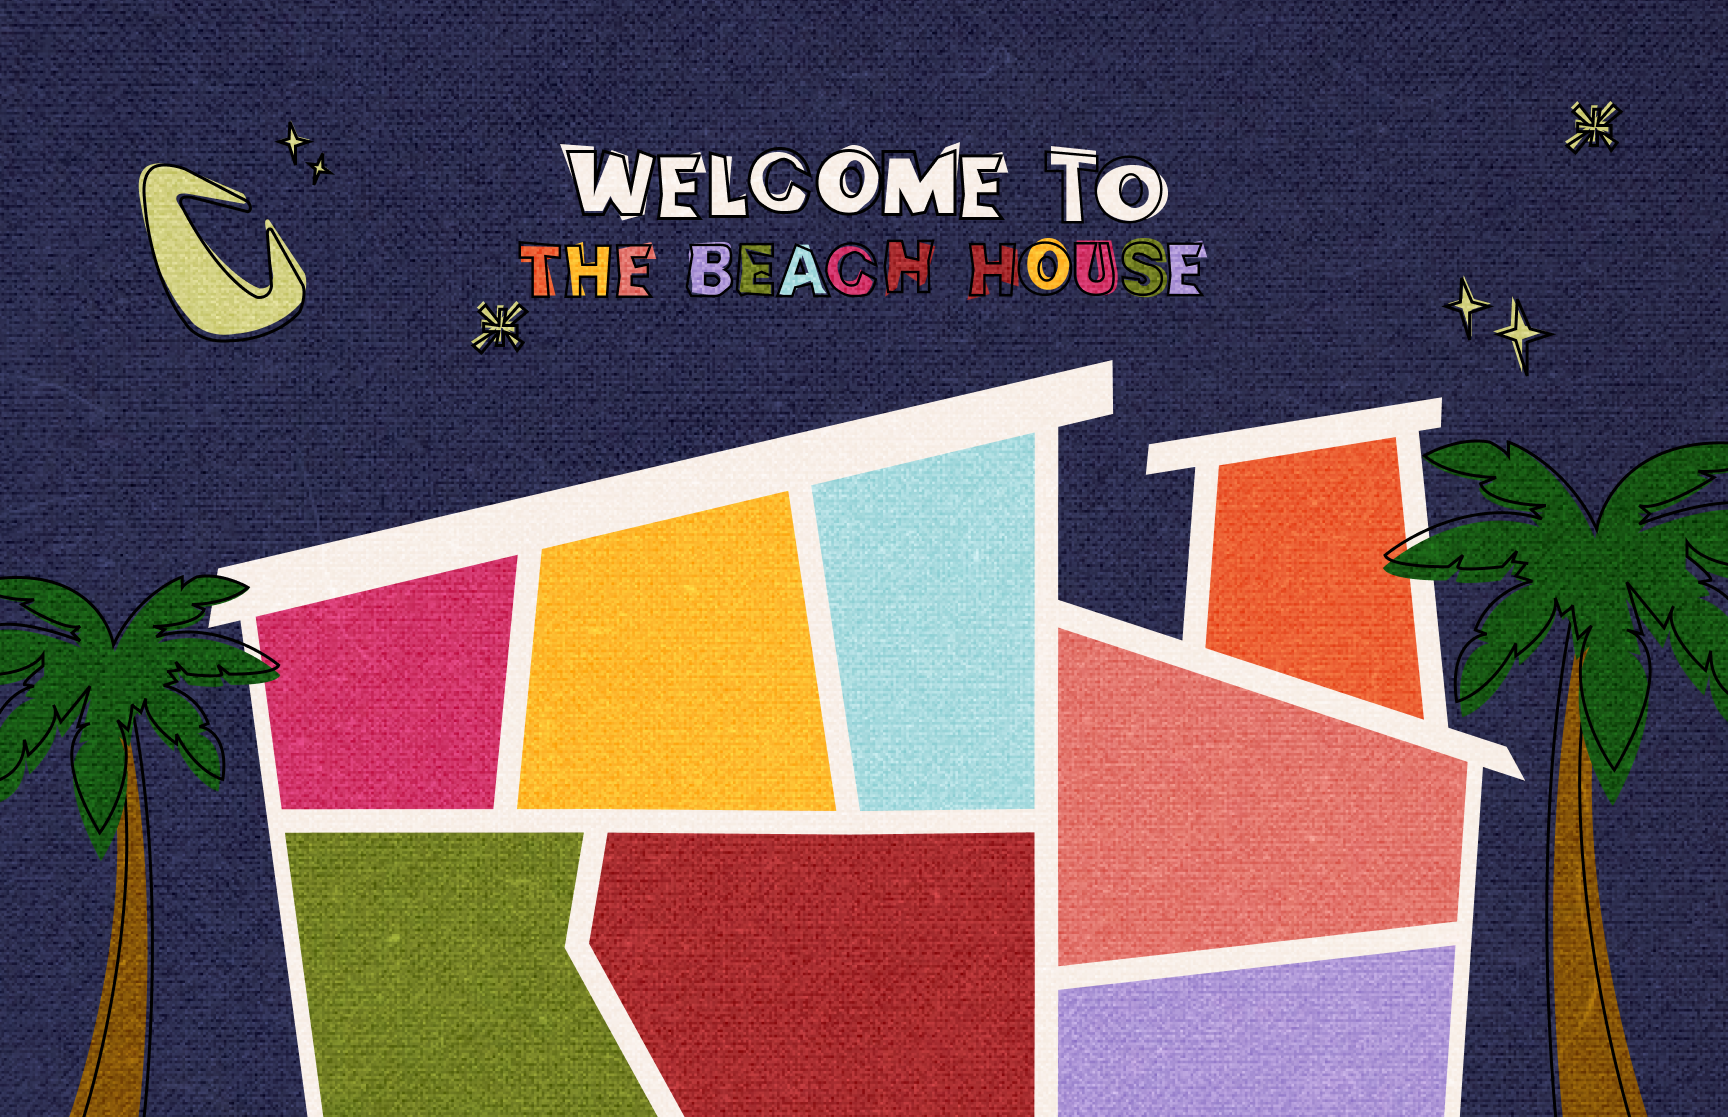
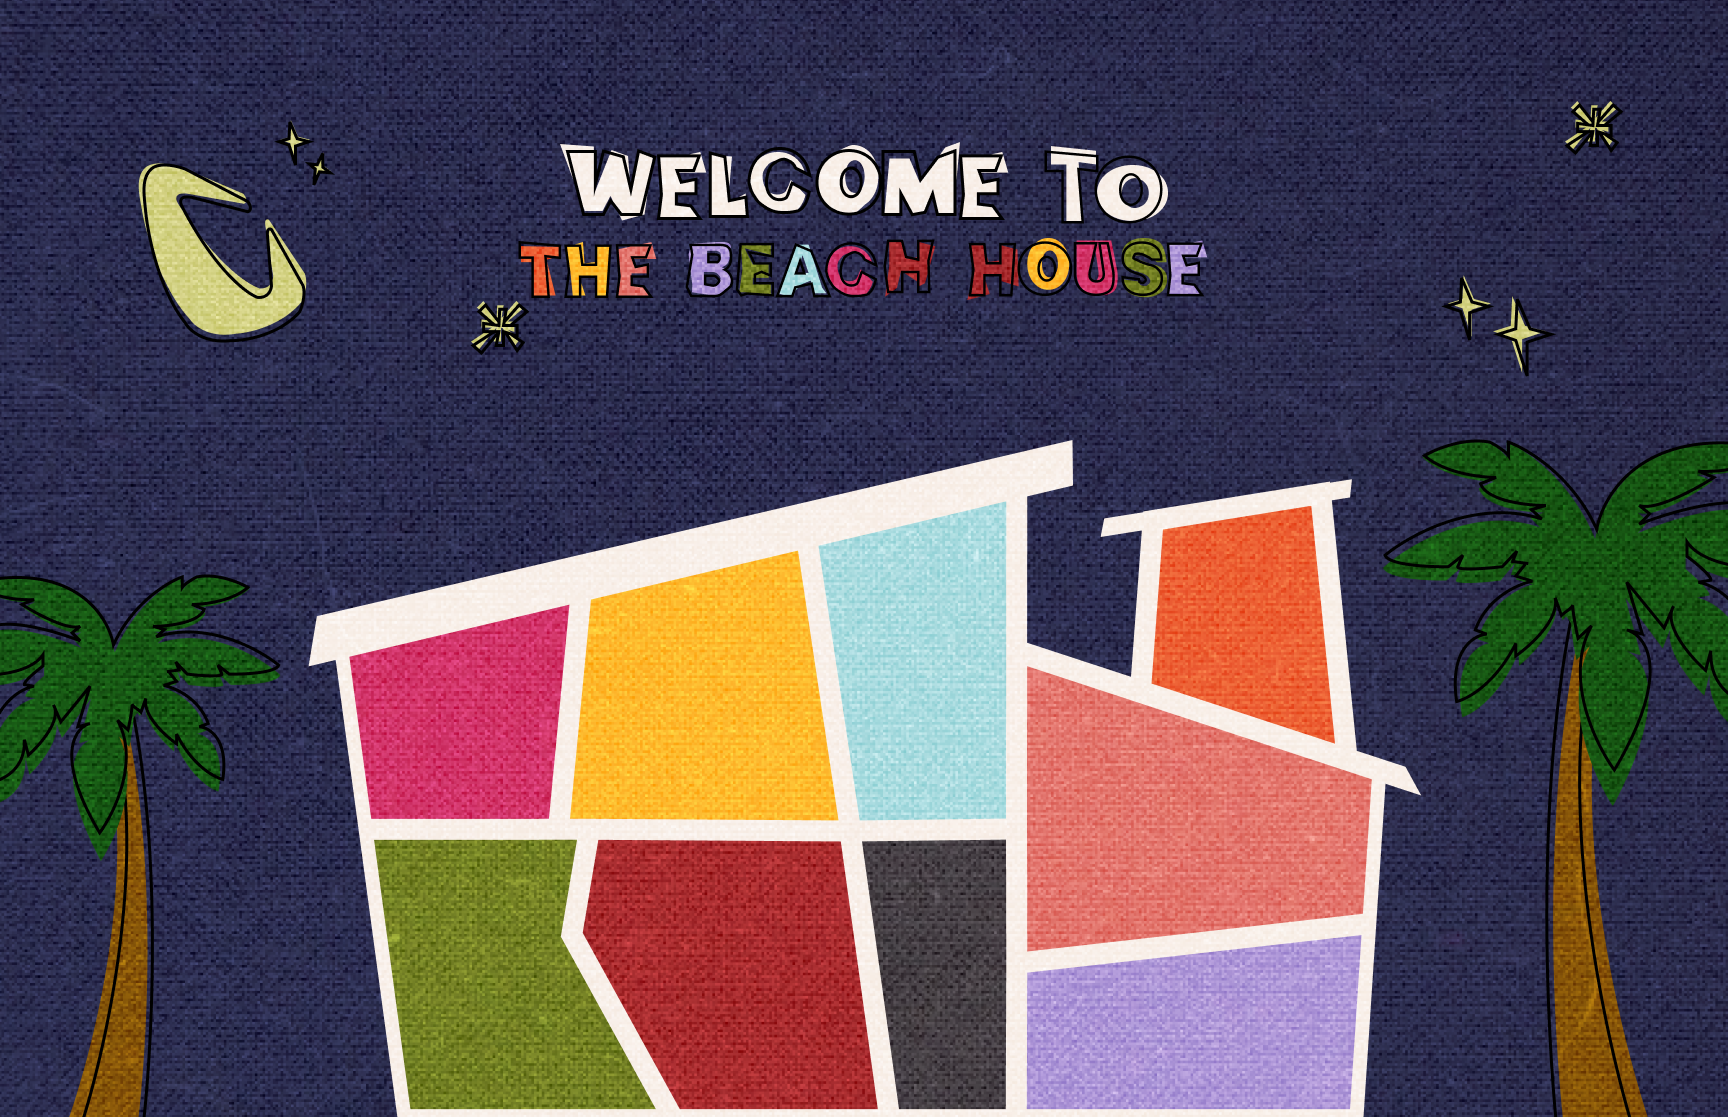
3 new rooms fixed

Changed region(s): [[0.125, 0.3044, 0.875, 1.0]]

diff --git a/interface/static/css/game_room.css b/interface/static/css/game_room.css
@@ -70,6 +70,84 @@ body {
     text-decoration: none;
 }
 
+.hint_escritorio {
+  position: absolute;
+  z-index: 1;
+  width: 17vw;
+  height: 42vh;
+  top: 11vh;
+  right: 0vw;
+  background-color: transparent;
+  border: none;
+  cursor: pointer;
+  text-decoration: none;
+}
+
+.puzzle_escritorio {
+  position: absolute;
+  z-index: 1;
+  width: 2.5vw;
+  height: 4.5vh;
+  top: 43vh;
+  left: 5.6vw;
+  background-color: transparent;
+  border: none;
+  cursor: pointer;
+  text-decoration: none;
+}
+
+.hint_berçario {
+  position: absolute;
+    z-index: 1;
+    width: 3.5vw;
+    height: 7vh;
+    top: 27vh;
+    right: 20.5vw;
+    background-color: transparent;
+    border: none;
+    cursor: pointer;
+    text-decoration: none;
+}
+
+.puzzle_berçario {
+  position: absolute;
+  z-index: 1;
+  width: 2.5vw;
+  height: 4vh;
+  top: 58.5vh;
+  left: 10.6vw;
+  background-color: transparent;
+  border: none;
+  cursor: pointer;
+  text-decoration: none;
+}
+
+.hint_garagem {
+  position: absolute;
+  z-index: 1;
+  width: 11vw;
+  height: 8vh;
+  bottom: 8vh;
+  right: 44vw;
+  background-color: transparent;
+  border: none;
+  cursor: pointer;
+  text-decoration: none;
+}
+
+.puzzle_garagem {
+  position: absolute;
+  z-index: 1;
+  width: 2.5vw;
+  height: 4vh;
+  top: 50.2vh;
+  right: 21.8vw;
+  background-color: transparent;
+  border: none;
+  cursor: pointer;
+  text-decoration: none;
+}
+
 .back-button {
   position: absolute;
   z-index: 1;
@@ -95,8 +173,8 @@ body {
 
 .modal-content {
   position: relative;
-  width: 35vw;
-  height: 45vh;
+  width: 45vw;
+  height: 55vh;
   border-radius: 8px;
   overflow: hidden;
   display: flex;
